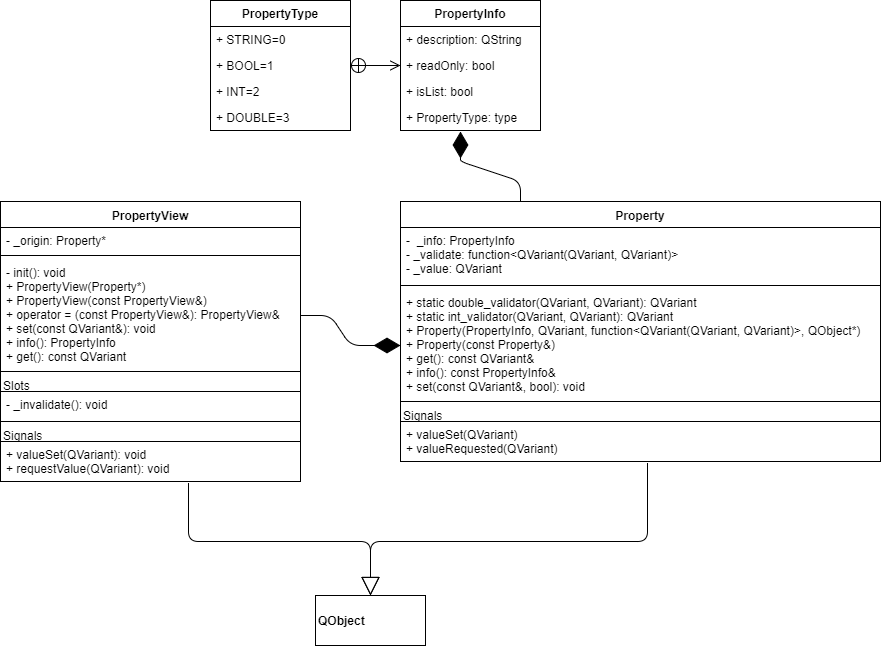
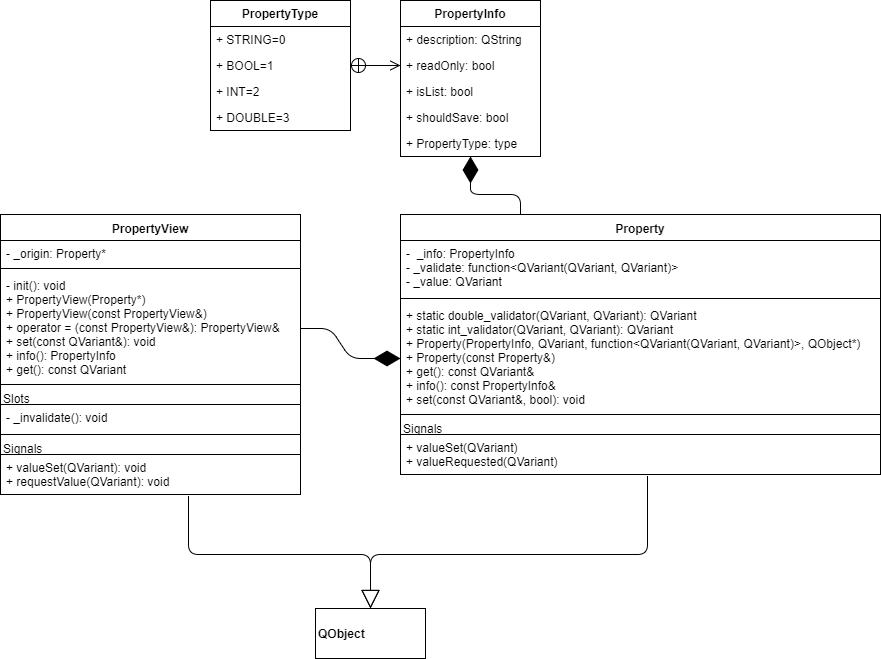
Documentation update

diff --git a/Documentation/Design Docs/Latex Docs/design.tex b/Documentation/Design Docs/Latex Docs/design.tex
@@ -361,7 +361,7 @@ After construction, shapes and children models can be added and removed with the
  		\item Its value
  	\end{itemize}
  	
- 	The PropertyInfo is a container for any meta information about the Property. This contains data such as the type of the data, whether or not it's read-only, whether or not it's a list, and a description of what the Property is used for. This is intended to be used to aid a UI which displays Properties to the user. It is assigned to a Property once, at construction, and can be accessed through the info() method.
+ 	The PropertyInfo is a container for any meta information about the Property. This contains data such as the type of the data, whether or not it's read-only, whether or not it's a list, whether or not it's required to rebuild the component, and a description of what the Property is used for. This is intended to be used to aid a UI which displays Properties to the user. It is assigned to a Property once, at construction, and can be accessed through the info() method.
  	
  	The validation function follows the prototype \lstinline|function<QVariant(QVariant, QVariant)>| and is used to make sure that the data assigned to the Property is valid. The first parameter represents the previous value, and the second parameter is a potential new value. The function should return the new value if it is acceptable and the old value if the new one is not acceptable (Optionally, the function may change the new value to make it valid and then return it). The default validation function accepts all values. A number of basic validation functions exist as static methods of the Property class for convenience. Some of them are
  	\begin{itemize}

diff --git a/pkg_SimulatorAPI/include/sdsmt_simulator/property.h b/pkg_SimulatorAPI/include/sdsmt_simulator/property.h
@@ -26,7 +26,7 @@ public:
     QString description; //!< Short description of the property that could be shown to a user
     bool readOnly; //!< True if the property should not be changed after a world object has been designed
     bool isList; //!< True if the property is an array of whatever its type is
-    bool shouldSave; //!< True if the property is required to re-create the state of the component, and therefore should be saved
+    bool shouldSave; //!< True if the property is required to re-create the state of the component, and therefore should be saved and cloned
     PropertyType type; //!< Type of property
 
     //! Convenience constructor to initialize all values
